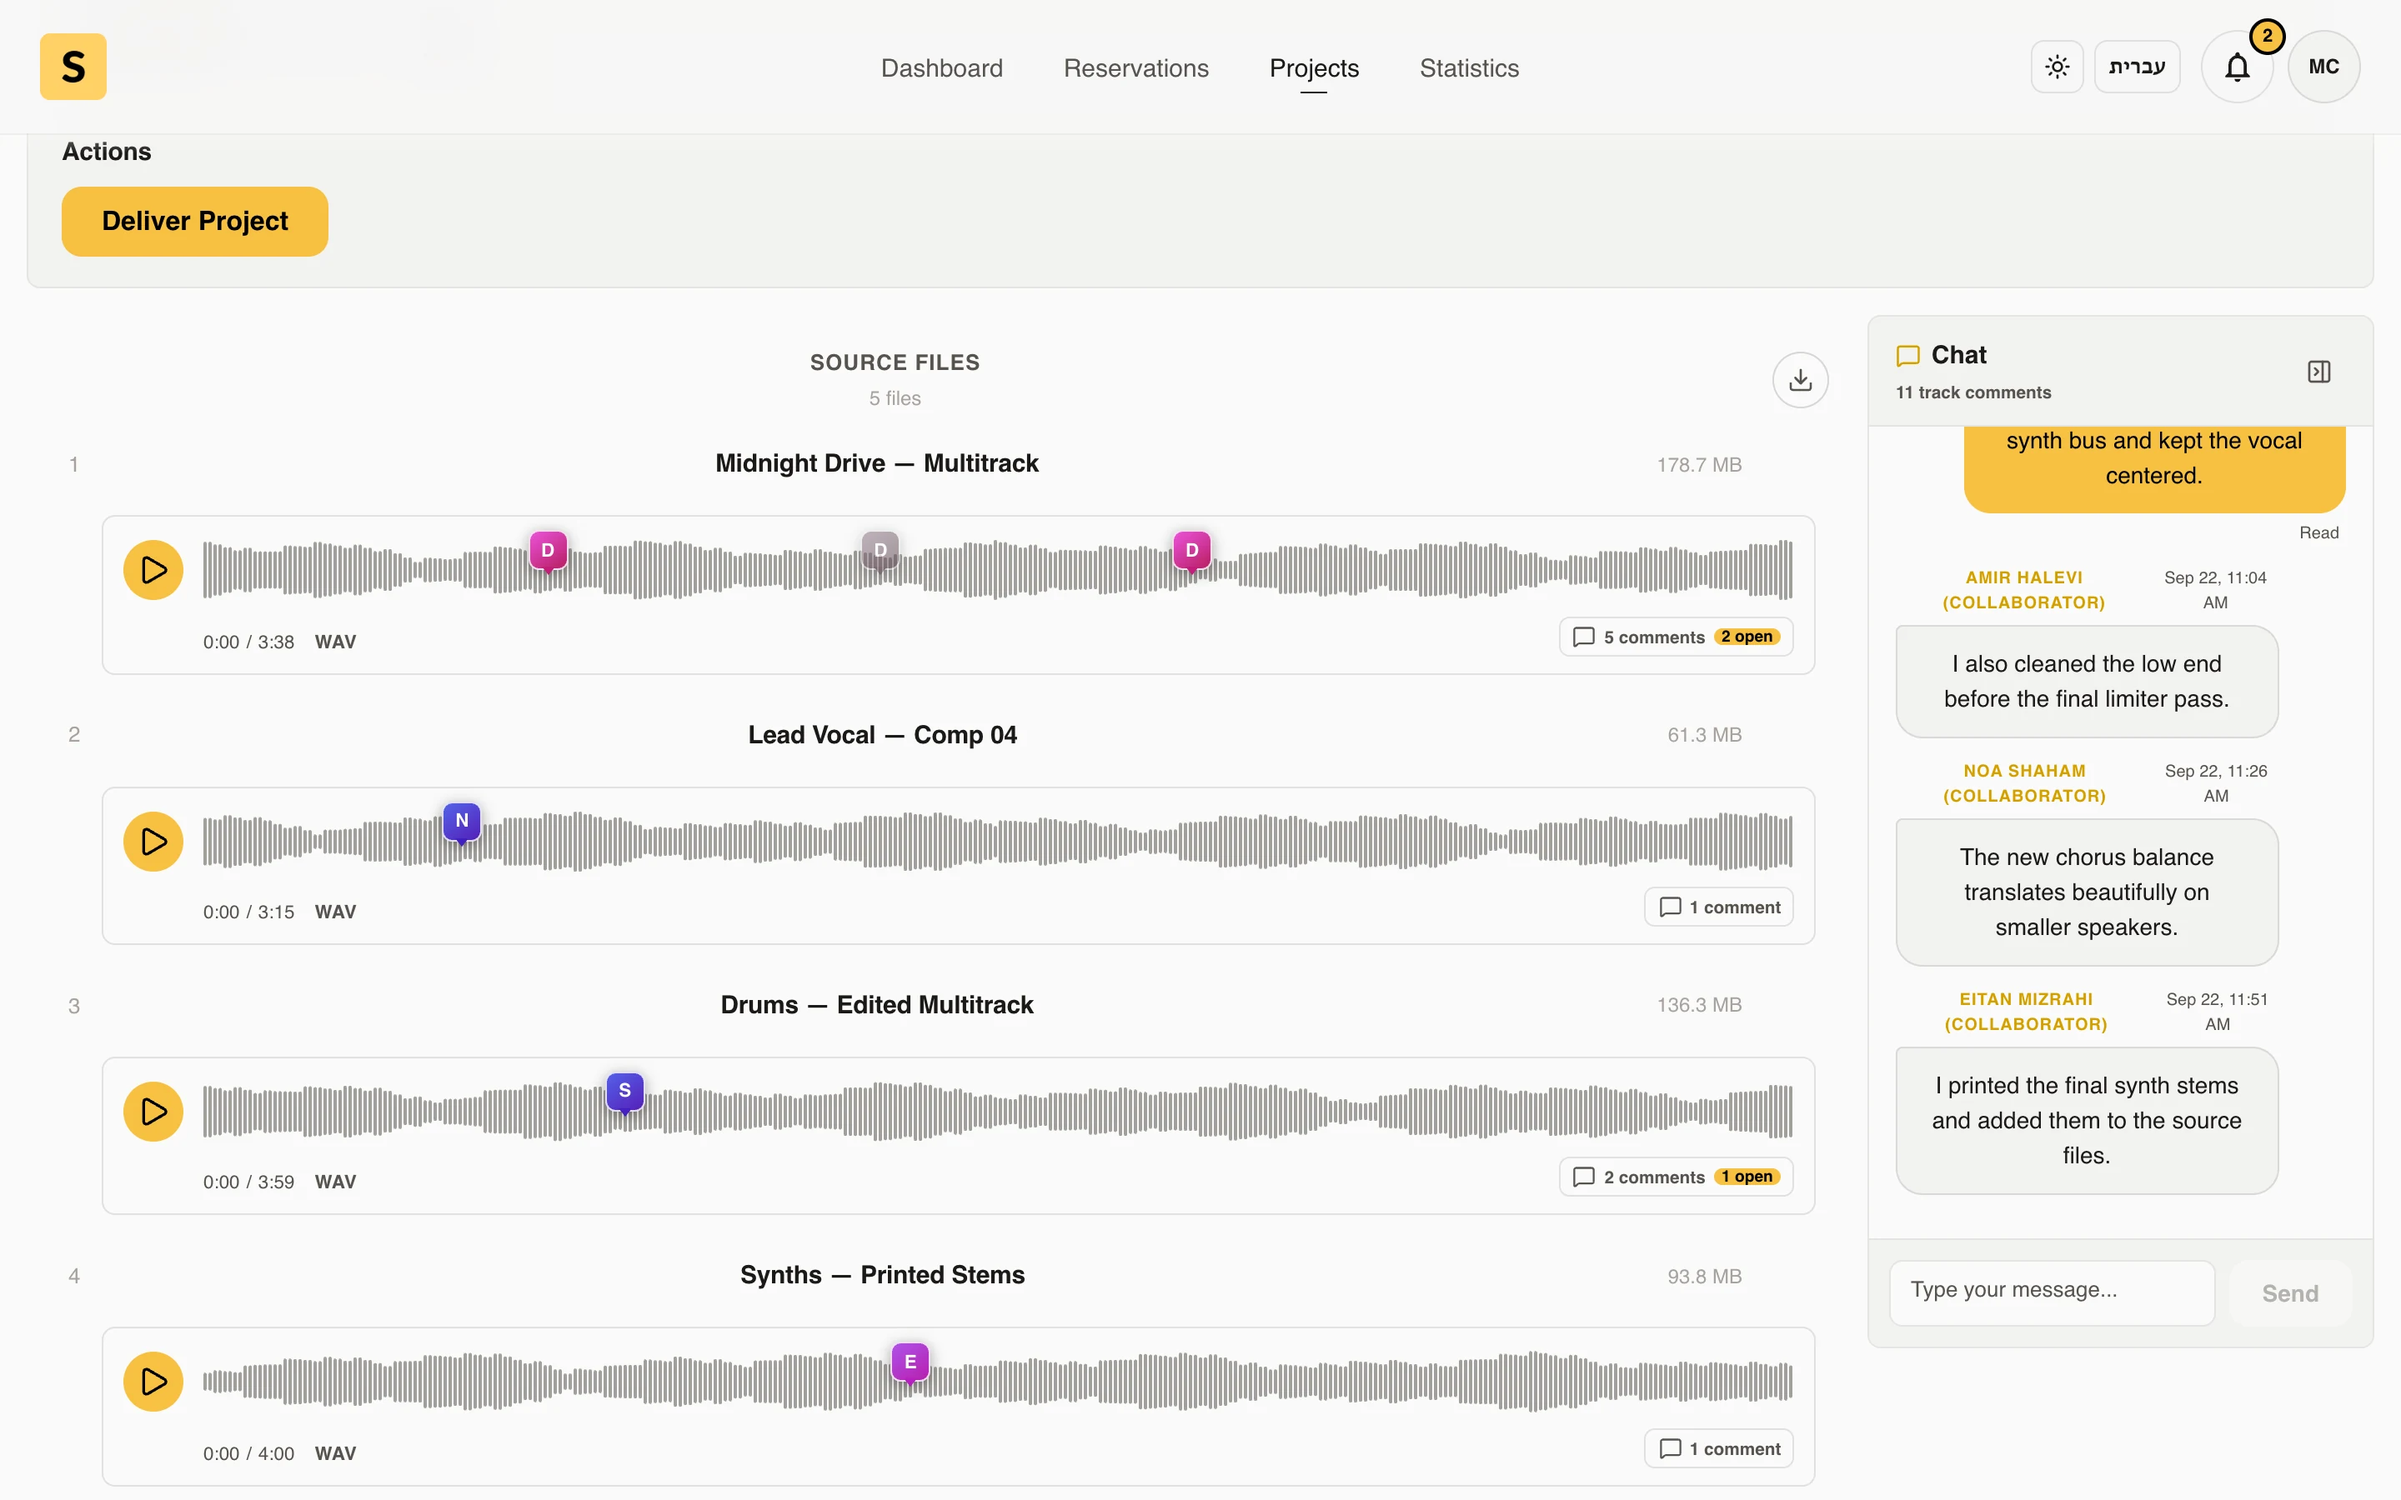
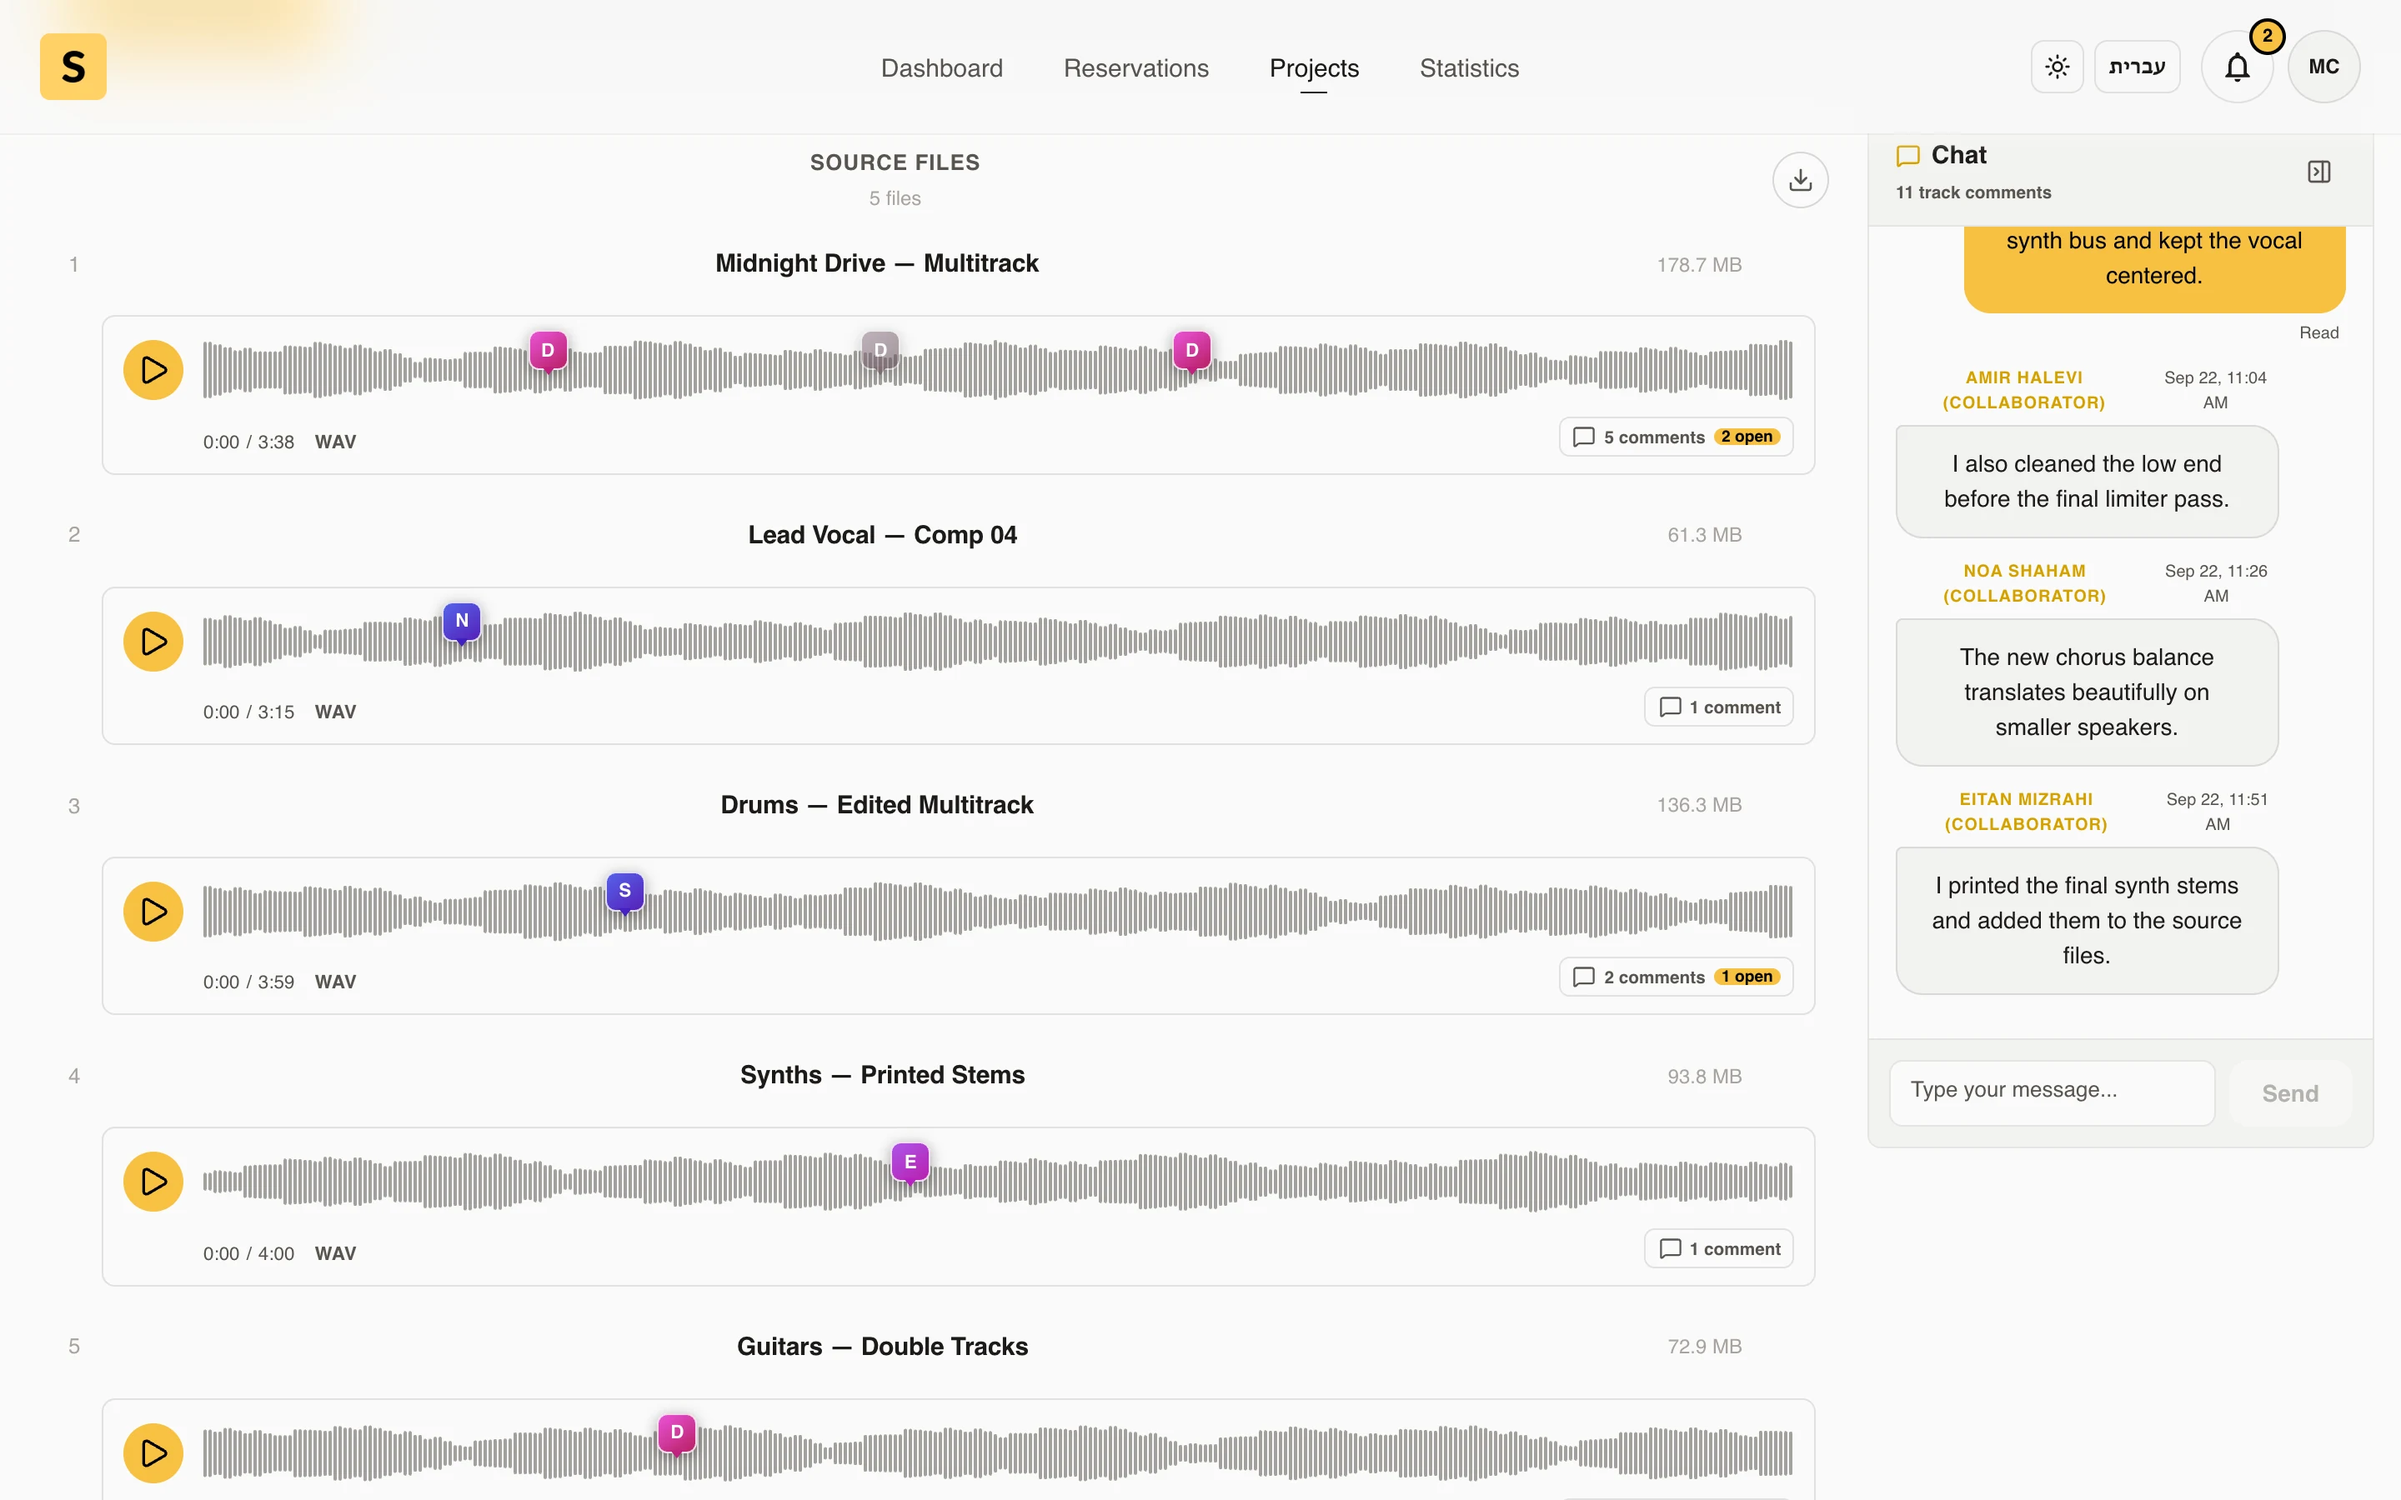
Align project workspace hero captures across locales and themes.

diff --git a/tools/app-store-screenshots/screenshots.config.ts b/tools/app-store-screenshots/screenshots.config.ts
@@ -507,13 +507,14 @@ const scenes: ScreenshotScene[] = [
     id: 'desktop-project-workspace',
     order: 23,
     path: '/projects/project-demo',
-    readySelector: '.project-collaborators',
+    readySelector: '.project-file-uploader--source',
     fixture: 'projects',
     auth: 'vendor',
     device: 'desktop-1440',
     template: 'full-bleed',
     textAlign: 'center',
-    actions: [{ type: 'scroll', selector: '.project-collaborators' }],
+    // Keep Actions + source files + chat in frame for every locale/theme.
+    actions: [{ type: 'scroll', selector: '.project-file-uploader--source', offsetY: -88 }],
     deviceTransform: { scale: 0.72, y: 100, shadow: true },
     capturePublish: {
       directory: 'public/images/features-generated',
@@ -591,9 +592,9 @@ const scenes: ScreenshotScene[] = [
     device: 'desktop-1440',
     secondaryDevice: 'iphone-6.9',
     template: 'dual',
-    // Desktop: current project workspace (collaborator avatars + source files).
+    // Desktop: same Actions + source files scene as desktop-project-workspace.
     // Mobile: open a track thread so the dual still shows cross-device review.
-    primaryActions: [{ type: 'scroll', selector: '.project-detail__header' }],
+    primaryActions: [{ type: 'scroll', selector: '.project-file-uploader--source', offsetY: -88 }],
     secondaryActions: [
       { type: 'scroll', selector: '.project-file-uploader--source' },
       { type: 'click', selector: '.project-file-uploader--source .remote-audio-player__thread-toggle' },
